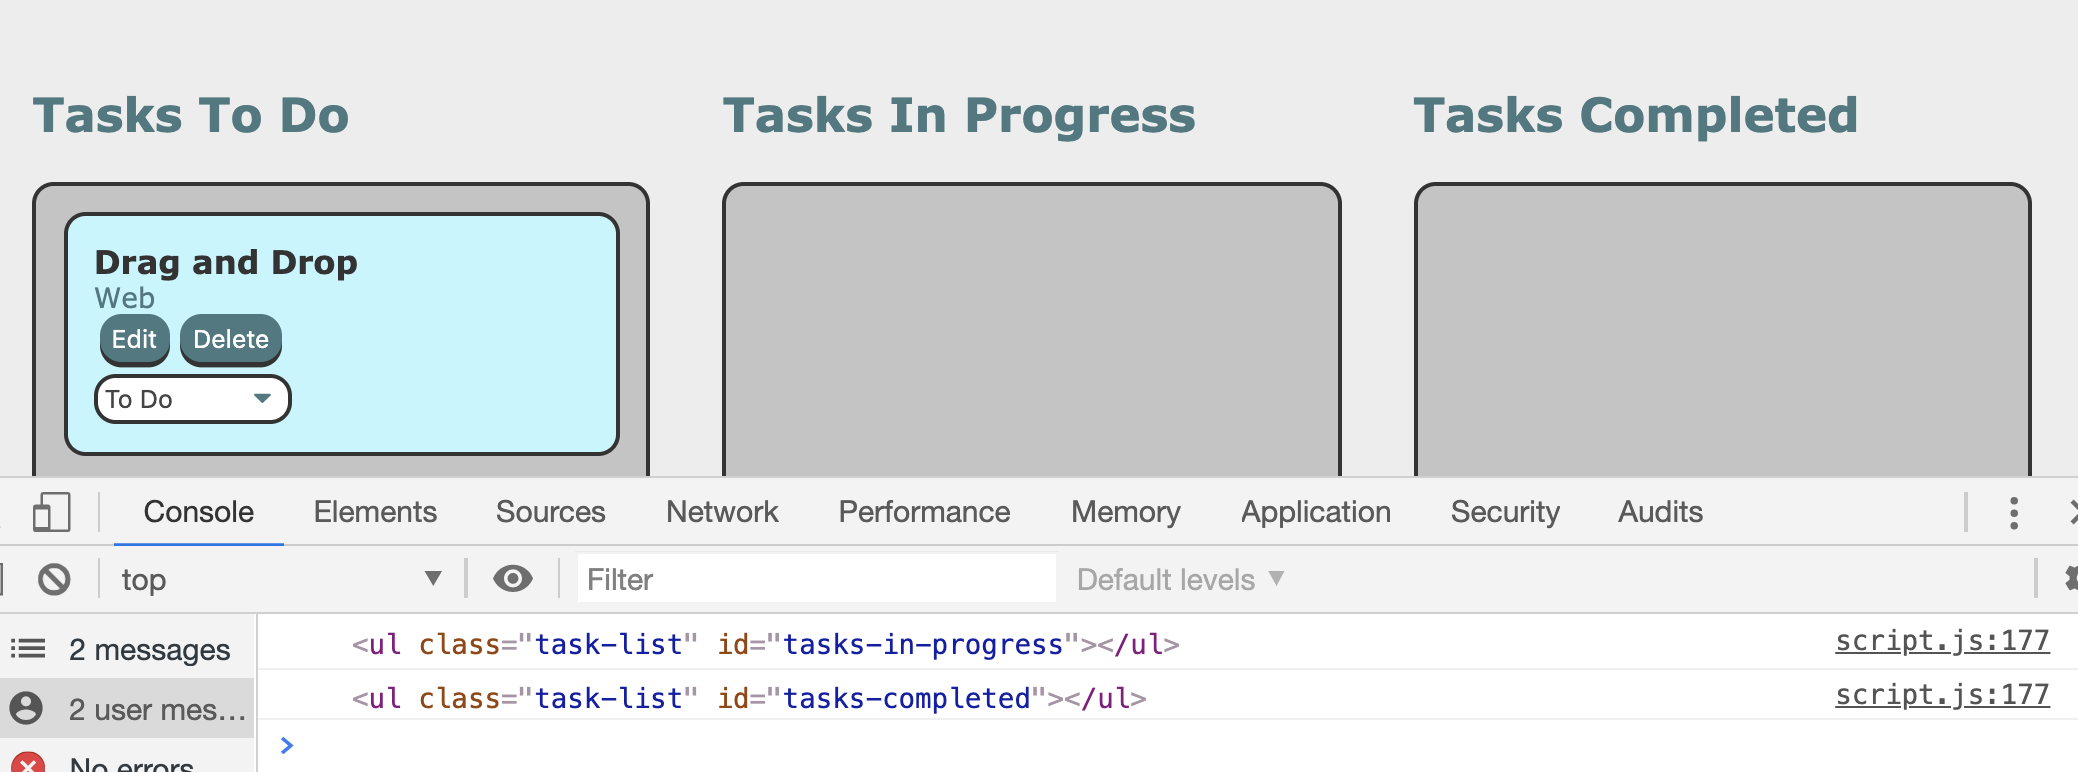
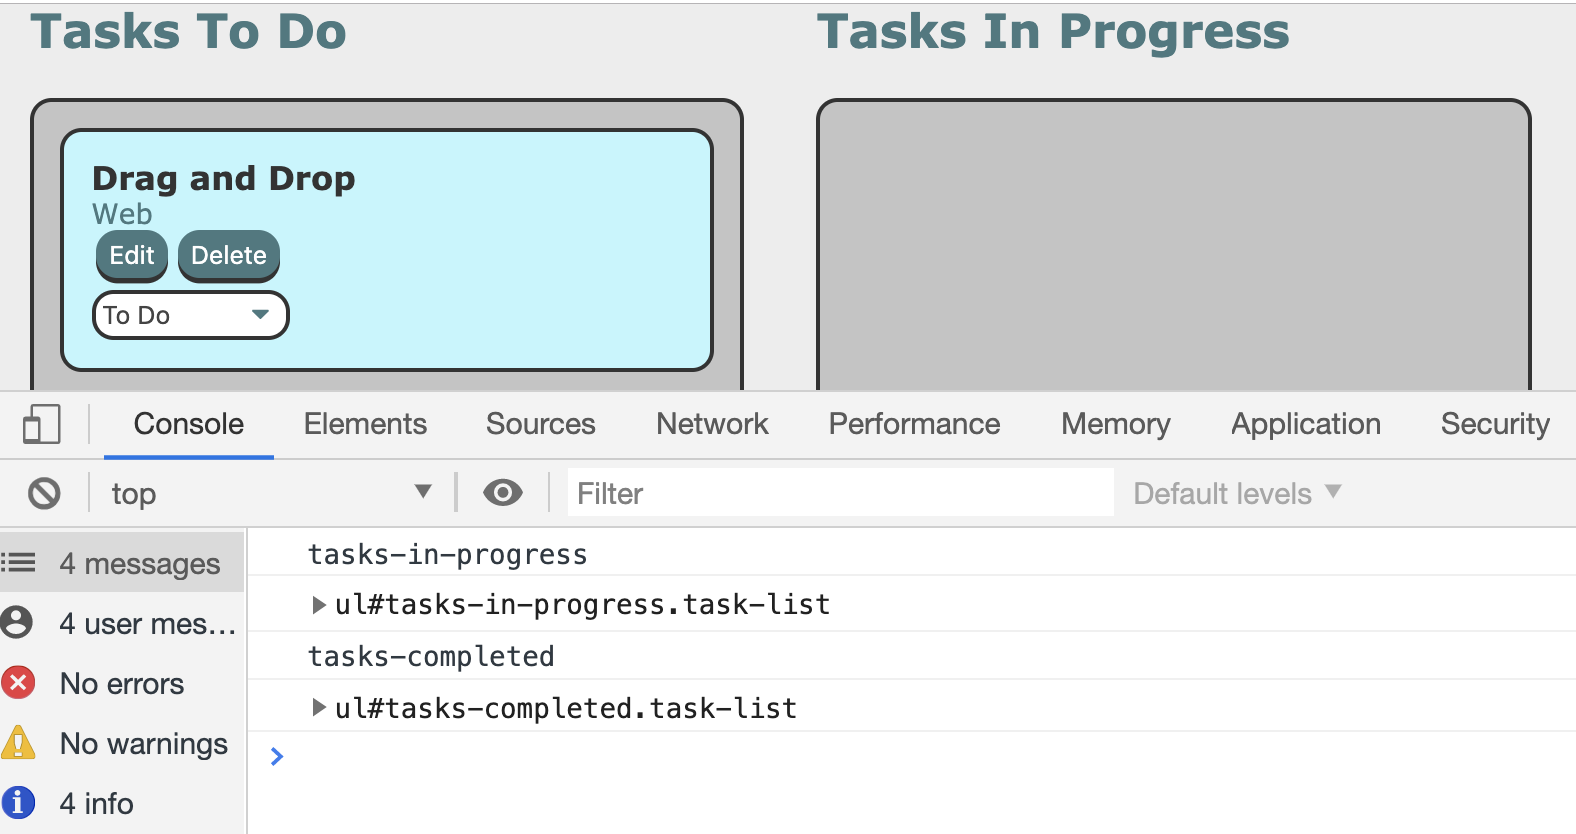
added UI enhancement to drag and drop

diff --git a/04-Web-APIs/content/lesson-4-drag.md b/04-Web-APIs/content/lesson-4-drag.md
@@ -232,62 +232,86 @@ Here we are creating a reference to the `data-task-id` value we stored previousl
 
 ![Console of Drop Event](./assets/lesson-4/1100-console-drop-event.png)
 
-Notice in the console image, the `target` property reveals the tasks in progress list that was dropped on or the `<ul id="tasks-in-progress" ... >`. Also note that `undefined` was returned when we tried to display our `dataTransfer` property. This was because the `dataTransfer` property must receive a data format in the `getData()` method in order to return the `id`. Next we see that "0" was verified as the task id which was properly returned from the `getData()` method. Here we included multiple arguments in the `console.log` function to verify multiple values as a quick way to check many variables and properties with a single expression. Although the drop feature isn't working quite yet, we are making progress by creating the references to the values and objects we will need to accomplish this step. 
+Notice in the console image, the `target` property reveals the tasks in progress list that was dropped on or the `<ul id="tasks-in-progress" ... >`. Also note that `undefined` was returned when we tried to display our `dataTransfer` property. This was because the `dataTransfer` property must receive a data format in the `getData()` method in order to return the `id`. Next we see that "0" was verified as the task id which was properly returned from the `getData()` method. Here we included multiple arguments in the `console.log` function to verify multiple values as a quick way to check many variables and properties with a single expression. Now try to drag this task item to a different list to ensure the `event.target` element is changing as it should. Although the drop feature isn't working quite yet, we are making progress by creating the references to the values and objects we will need to accomplish this step. 
 
 > **Pause:** What happens if the function expression occurs after we add the event listener?
 >
 > **Answer:** We will get an `Uncaught ReferenceError: dropTaskHandler is not defined` message as soon as our JavaScript file has loaded. We must define the function before using it used as a callback in the event listener to avoid this error. Proper organization and demarcation of function expressions before event listeners will help avoid this bug.
 
-Excellent work! We now have the information necessary to make a successful drop, the unique task id and the destination drop zone element. In the next step we will use the `id` to find the element that was initially dragged, and store this DOM element into a variable. 
-Type the following expression into the `dropTaskHandler` function underneath the `id` declaration. We can also remove the `console.log`.
+Excellent work! We now have the information necessary to make a successful drop, the unique task id and the destination drop zone element. In the next step we will use the `id` to find the element that was initially dragged and store the reference to this DOM element in a variable. 
+Type the following expression into the `dropTaskHandler` function underneath the `id` declaration. Let's remove the `console.log`.
 
 ```js
 var draggableElement = document.querySelector("[data-task-id='" + id + "']");
-console.log(draggableElement);
+console.dir(draggableElement);
 ```
+If the first expression looks a bit complex, it is because we are using string concatenation to account for our variable task id. We are using the `querySelector()` method on the `data-task-id` attribute to locate the dragged task item with our unique task id. In our case, we are searching for the task item with the `data-task-id` value of "0".
+Let's save our file, refresh the browser, add a task, then drag the task to get the following in the console:
+
 ![Console of Dragged Element](./assets/lesson-4/1200-console-dragged-element.png)
 
-If you see the following in your browser, salutations! We have successfully stored our task id in the `dataTransfer` object and used it to find the correct task item that was initially dragged.
+If you see the following in your browser, salutations! 
+We have successfully stored our task id in the `dataTransfer` object and used it to find the correct task item that was initially dragged. Notice we used `console.dir` to verify the correct element was chosen and that it is a DOM object representation of our task item element.
 
-Next we must identify which task list this `draggableElement` will be appended to.
+Next we must identify which task list this `draggableElement` will be appended to by using the following expression. Let's add this to our `dropTaskHandler()` function beneath the `draggableElement` declaration.
 ```js
 var dropzone = event.target.closest(".task-list");
-console.log(dropzone);
+var statusType = dropzone.id;
+console.log(dropzone.id);
+console.dir(dropzone);
 ```
-In this expression, we are using the `closest()` method again to return corresponding task list element related to the drop zone.
-Let's save and refresh the browser. Now try to create a task item then drag and drop it to the Tasks in Progress and the Tasks Completed lists.
-We should see the following in the browser:
+We have previously verified that the `event.target` property correctly identified the drop zone or the task list we are dropping our task item into in the `drop` event.
+In the above expression, we are using the `closest()` method again to return the corresponding task list element related to the drop zone. The `closest()` method is especially well suited for this job because even if we drop an element on a deeply nested child element of the task list, the `closest()` method will check itself and then traverse up to each successive parent element until the selector is found, returning the DOM element if it contains the targeted selector, and null if the selector is not found. Let's verify that the return from this method is a DOM element by using our `console.dir()` function. We are also storing a reference to the task list id, which is the `id` attribute that designates the task status. Let's verify this information is also valid. 
+
+Save, then refresh the browser. Create a task item then drag and drop it to the Tasks in Progress and the Tasks Completed lists. We should see the following in the browser:
 ![Console of the Drop Zone](./assets/lesson-4/1300-console-drop-zone.png)
 
-As we can see in the console, the drop zone is different in relation to which list is dropped upon.
+As we can see in the console, the drop zone is different in relation to which list is dropped upon. We also verified that the `closest()` method, like the `querySelector()` is returning a document object by expanding on the  object displayed by the `console.dir()` function. Using `console.log()`, we identified the list by verifying the `id` attribute of the task list with the object's `id` property. 
 
-Excellent work! Now we just need to use this as our destination element and append our `draggableElement` to it. Nice!
-But wait, the drag and drop features main purpose was to change the status of our task item. Let's proceed this important step.
+Excellent work! We have our drop destination element and can now append our `draggableElement` to it. Nice!
+But wait, the drag and drop feature's main purpose was to change the status of our task item. Let's proceed with this important step.
 
 In order to change the status of our task item let's first take a closer look at the `select` element in the browser that designates the task status:
 ![Elements Select Element](./assets/lesson-4/1400-elements-select.png)
 
-As we can see, the `select` element has a `name` attribute we can use to find this element in the DOM.
+As we can see, the `select` element has a `name` attribute that is a unique identifier which we can use to find this specific element in the DOM.
 
-Let's type the following in the `dropTaskHandler()` function and underneath the `dropzone` declaration to create a reference we can use to change the task status.
+Let's type the following in the `dropTaskHandler()` function to create a variable to reference the `<select>` element as a document object.
 ```js
 // set status of task based on dropzone id
 var statusSelectEl = draggableElement.querySelector("select[name='status-change']");
-var statusType = dropzone.id;
+console.dir(statusSelectEl);
+console.log(statusSelectEl);
 ```
+Notice in this statement we used the `draggableElement` and not `document` as the reference point of the `querySelector()` method. Why did we replace this reference point?
 
-So using the `select` DOM element, we are able to access the drop down options with the `selectedIndex`. Using the `id` property to identify the new task status, let's use an `if-else` conditional to reassign the task. 
+Let's say we used the `document` to query our `<select>` element. If we had multiple task items, this would also mean we would have multiple `<select>` elements that have the same `name` attribute. Therefore the `querySelector()` would simply choose the first one in the DOM tree, not the element we need to change which would be the `<select>` element of the task item that was dragged. Luckily we have a reference of the dragged document object which can use to traverse down using the `querySelector()` method to find the child element, or the corresponding `<select>` element of the dragged task item.
+
+> **Rewind:** The `querySelector()` method traverses down from the reference point to its children while `closest()` traverses up to ancestor elements to the root document from the reference element.
+
+Let's save and refresh the browser, then add two tasks. Drag both tasks to see the following results in the console:
+
+![Console of Select Element](./assets/lesson-4/1500-console-select-element.png)
+
+As we can see in the console, traversing from the dragged task item element allowed the correct `<select>` element to be captured. The `console.log()` in this case helped identify the `data-task-id` attribute more clearly.
+
+Now that we have the `<select>` DOM element and the destination task list derived from the `id` attribute stored as a reference in the `statusType` variable, we can identify how to update the status of the task. 
+Using the `id` property to identify the new task status, let's use an `if-else` conditional to reassign the task. 
 Please type the following in the `dropTaskHandler()` function underneath the `statusType` declaration.
 
 ```js
-  if (statusType === "tasks-to-do") {
-    statusSelectEl.selectedIndex = 0;
-  } else if (statusType === "tasks-in-progress") {
-    statusSelectEl.selectedIndex = 1;
-  } else if (statusType === "tasks-completed") {
-    statusSelectEl.selectedIndex = 2;
-  }
+if (statusType === "tasks-to-do") {
+  statusSelectEl.selectedIndex = 0;
+} 
+else if (statusType === "tasks-in-progress") {
+  statusSelectEl.selectedIndex = 1;
+} 
+else if (statusType === "tasks-completed") {
+  statusSelectEl.selectedIndex = 2;
+}
 ```
+Notice how the `selectedIndex` property of the `<select>` DOM element allowed us to assign the task item element to the corresponding task list.
+
 Now all that's left is to append the `draggableElement` to is new parent element, `dropzone` and clear the `dataTransfer` property.
 
 ```js
@@ -295,14 +319,19 @@ Now all that's left is to append the `draggableElement` to is new parent element
   event.dataTransfer.clearData();
 ```
 
-Let's save and refresh our browser and see how our feature looks.
+Let's save and refresh our browser and see how our feature looks. Add a few tasks and drag them around.
+
 > **Asset Needed:** [Gif Drop Effect Jira Issue FSFO-289](https://trilogyed.atlassian.net/jira/software/projects/FSFO/boards/197/backlog?selectedIssue=FSFO-235)  
+
+Great job! The application is functioning very nicely with our new drag and drop feature. Let's add, commit, and push our work. Even though the app is working well, there are a few tweaks that could add some nice polish. Let's go over a few of these improvements in the next step. 
 
 
 ## Enhance UI with Dragleave Event
-Congratulations on building a drag/drop app. It functions pretty well, but after playing with it a bit, there are some design elements we can improve for a better user experience.
-* Change the CSS to show when a list is being dragged over
-* In dropzoneDragHandler, have students console log event.target and then event.target.closest(".task-list") to show how we can capture the UL element
+Congratulations on completing the drag and drop feature. It functions pretty well, but after playing with it, we found an improvement that would enhance the user experience. It would be nice if the user is able to see where the dragged element can be dropped. Upon the `dragover` or hover event on top of a task list, let's change the border to a dashed line and highlight the background color. 
+
+In order to accomplish this task we will add some CSS properties to the task list element. As we have done several times in this lesson, we will use the `event.target` property to 
+
+* In `dropzoneDragHandler`, have students console log event.target and then event.target.closest(".task-list") to show how we can capture the UL element
 * On the closest element, use setAttribute() to add a dashed border
   * Point out that closest() and setAttribute() can be “chained” and explain how chaining methods works
 * Test in browser and note that the border never goes away
